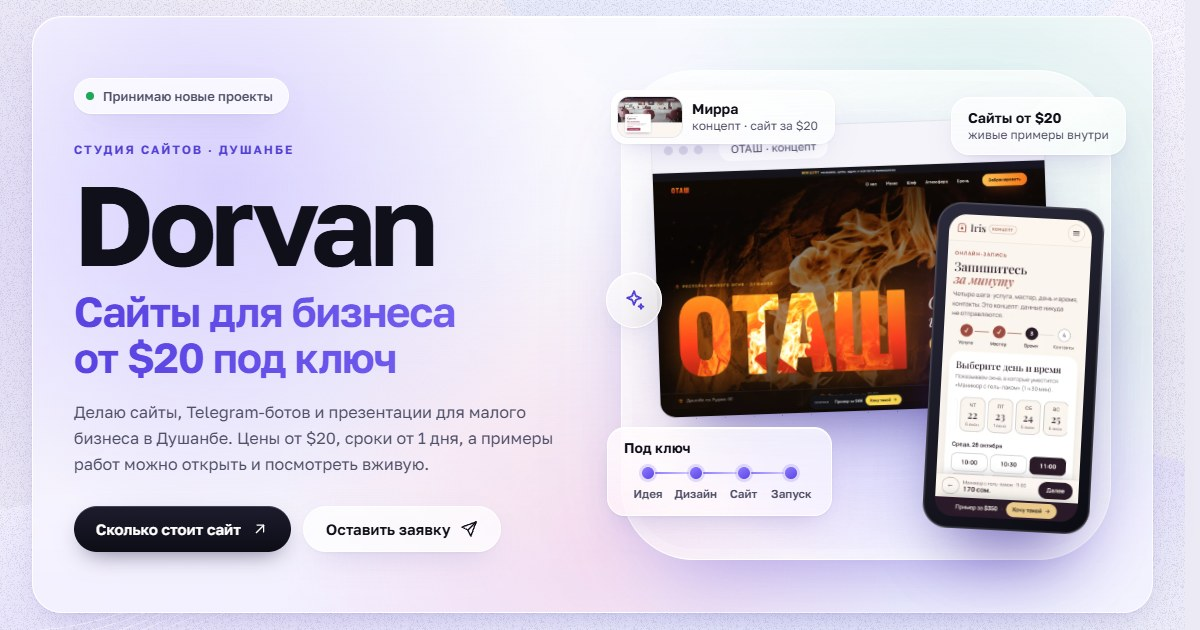
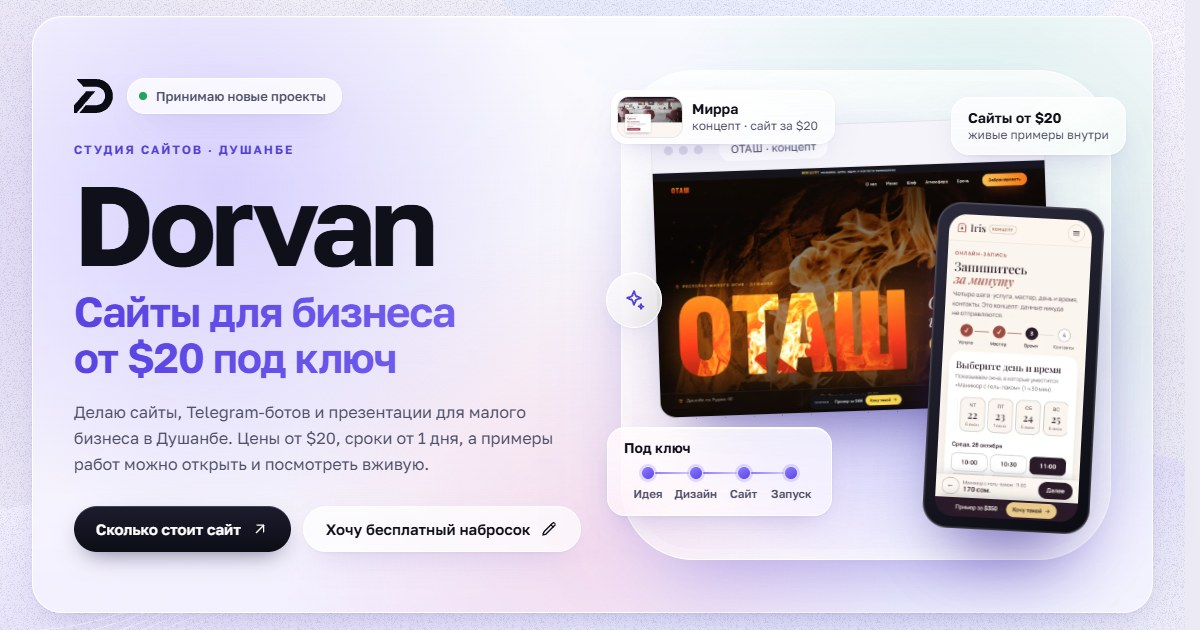
Новый логотип Dorvan: шапка, значок вкладки и превью ссылки
- Шапка: новый знак «D» (плоский, цветом текста) вместо плитки со старой «D» и фиолетовой точкой; подпись «Dorvan» чуть крупнее
- Значок вкладки (assets/favicon.svg): тёмная плитка с белой «D»
- Картинка превью ссылки (assets/og.jpg): знак слева от плашки «Принимаю новые проекты», обе кнопки главного экрана в одну строку, снимок актуального главного экрана

Changed region(s): [[0.2775, 0.8143, 0.4625, 0.8746], [0.0617, 0.1206, 0.2775, 0.181]]

diff --git a/css/style.css b/css/style.css
@@ -113,10 +113,10 @@ button.round:active{transform:scale(.92)}
 @supports not ((backdrop-filter:blur(1px)) or (-webkit-backdrop-filter:blur(1px))){.nav::before{background:rgba(255,255,255,.92)}}
 .nav__progress{position:absolute;left:22px;right:22px;bottom:0;height:2px;border-radius:2px;overflow:hidden;pointer-events:none}
 .nav__progress i{display:block;height:100%;background:linear-gradient(90deg,#B3A6FF,#6A55E8);transform-origin:0 50%;transform:scaleX(0)}
-.brand{display:flex;align-items:center;gap:10px;flex:none}
-.brand__mark{width:38px;height:38px;border-radius:12px;box-shadow:0 8px 18px -8px rgba(20,15,60,.55);transition:scale var(--dur-2) var(--ease)}
+.brand{display:flex;align-items:center;gap:11px;flex:none}
+.brand__mark{width:34px;height:30px;color:var(--ink);transition:scale var(--dur-2) var(--ease)}
 .is-scrolled .brand__mark{scale:.9}
-.brand__txt b{display:block;font-size:15px;font-weight:650;line-height:1.15;letter-spacing:-.01em}
+.brand__txt b{display:block;font-size:16px;font-weight:650;line-height:1.15;letter-spacing:-.01em}
 .brand__txt small{display:block;font-size:12px;color:var(--ink-2);line-height:1.2}
 .nav__links{display:flex;gap:2px;margin:0 auto}
 .nav__links a{position:relative;display:block;padding:9px 14px;border-radius:999px;font-size:14px;font-weight:500;color:var(--ink-2);transition:color var(--dur-1) var(--ease),background-color var(--dur-2) var(--ease),box-shadow var(--dur-2) var(--ease)}

diff --git a/index.html b/index.html
@@ -85,7 +85,7 @@
 <header class="nav-wrap wrap">
   <nav class="nav glass" id="nav" aria-label="Основная навигация" data-i18n-attr="aria-label:nav.label">
     <a class="brand" href="#top" aria-label="Dorvan">
-      <svg class="brand__mark" viewBox="0 0 64 64" aria-hidden="true"><defs><linearGradient id="bm" x1="0" y1="0" x2="1" y2="1"><stop offset="0" stop-color="#2A2850"/><stop offset="1" stop-color="#0B0B14"/></linearGradient></defs><rect width="64" height="64" rx="18" fill="url(#bm)"/><path d="M21.4 17.2V46.8H28A14.8 14.8 0 0 0 28 17.2Z" fill="none" stroke="#fff" stroke-width="6.4" stroke-linecap="round" stroke-linejoin="round"/><circle cx="44.8" cy="15.2" r="3.3" fill="#A99BFF"/></svg>
+      <svg class="brand__mark" viewBox="0 0 1140 1000" aria-hidden="true"><path fill="currentColor" d="M81.5 9.9A6 6 0 0 1 86 0L640 0A500 500 0 0 1 640 1000L161 1000A6 6 0 0 1 156.5 990.1L341.6 774.1A6 6 0 0 1 346.2 772L640 772A272 272 0 0 0 640 228L271.2 228A6 6 0 0 1 266.6 225.9ZM348.8 365.1A6 6 0 0 1 353.3 363L607 363A6 6 0 0 1 611.5 372.9L75.8 997.9A6 6 0 0 1 71.2 1000L6 1000A6 6 0 0 1 0 994L0 774.2A6 6 0 0 1 1.4 770.3Z"/></svg>
       <span class="brand__txt"><b>Dorvan</b><small data-i18n="brand.sub">Сайты для бизнеса</small></span>
     </a>
     <ul class="nav__links" id="nav-links">
